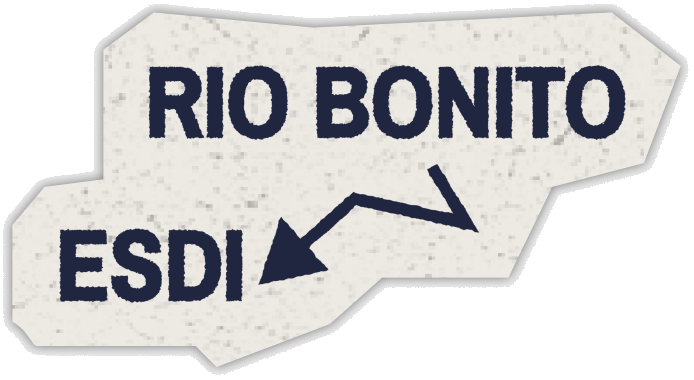
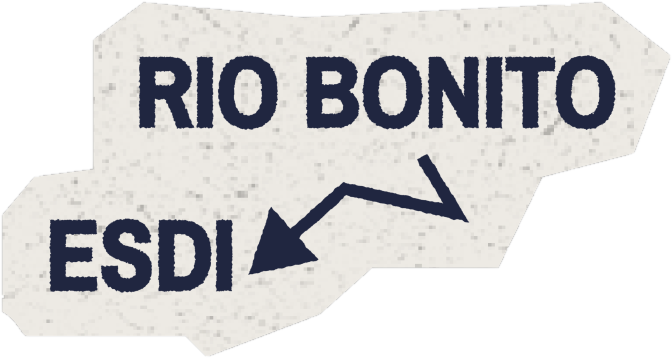
tela de carregamento rio bonito

diff --git a/js/cosmos.js b/js/cosmos.js
@@ -166,7 +166,7 @@
     riobonito: {
       data: () => window.TRAJETO_RIOBONITO,
       hash: "#rio-bonito",
-      title: RB + "titulo-rio-bonito.png",
+      title: RB + "titulo-rio-bonito.png?v=2",
       homeLabel: "Rio Bonito → ESDI — voltar ao início do trajeto",
       mapLabel: "Mapa do trajeto do centro de Rio Bonito até a ESDI, na Lapa: ônibus por Tanguá, Itaboraí, São Gonçalo e Niterói, baldeação para a barca até o centro do Rio de Janeiro. Nas falas 2 e 3, arraste para explorar.",
       sound: true,

diff --git a/index.html b/index.html
@@ -298,7 +298,7 @@
   <script src="data/novaiguacu-trajeto.js?v=20261118d"></script>
   <script src="data/riobonito-trajeto.js?v=20261118d"></script>
   <script src="data/resumo-diagramas.js?v=20261118d"></script>
-  <script src="js/cosmos.js?v=20261121a"></script>
+  <script src="js/cosmos.js?v=20261121b"></script>
   <script src="js/main.js?v=20261118d"></script>
 </body>
 </html>
